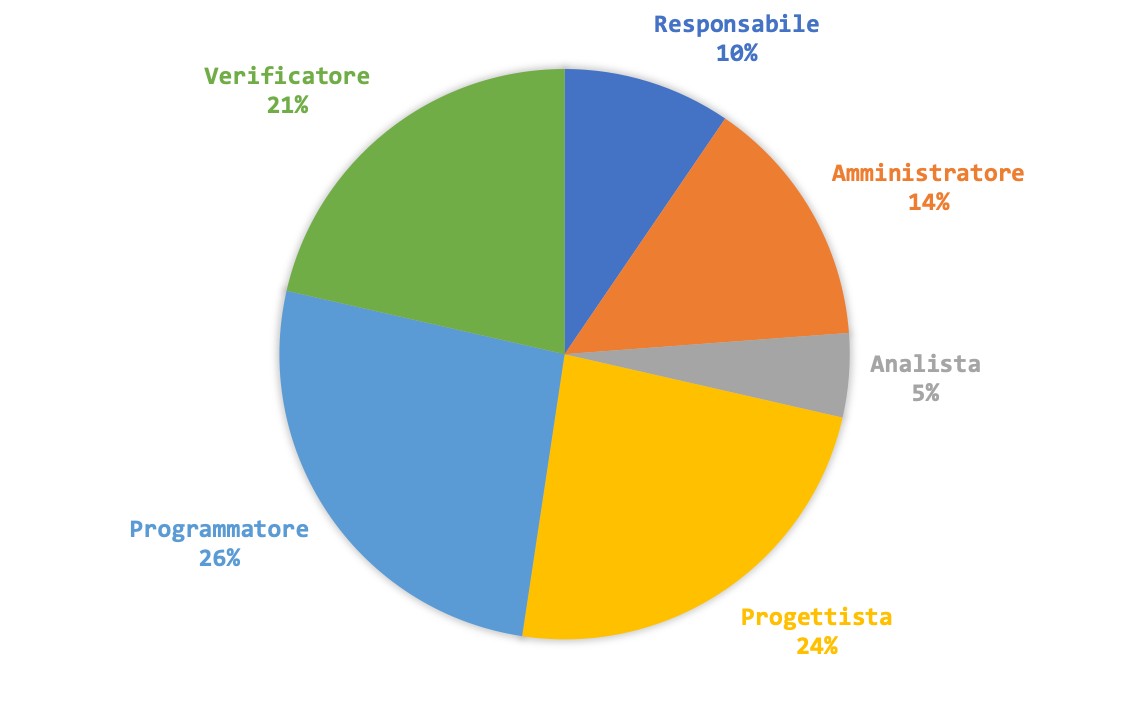
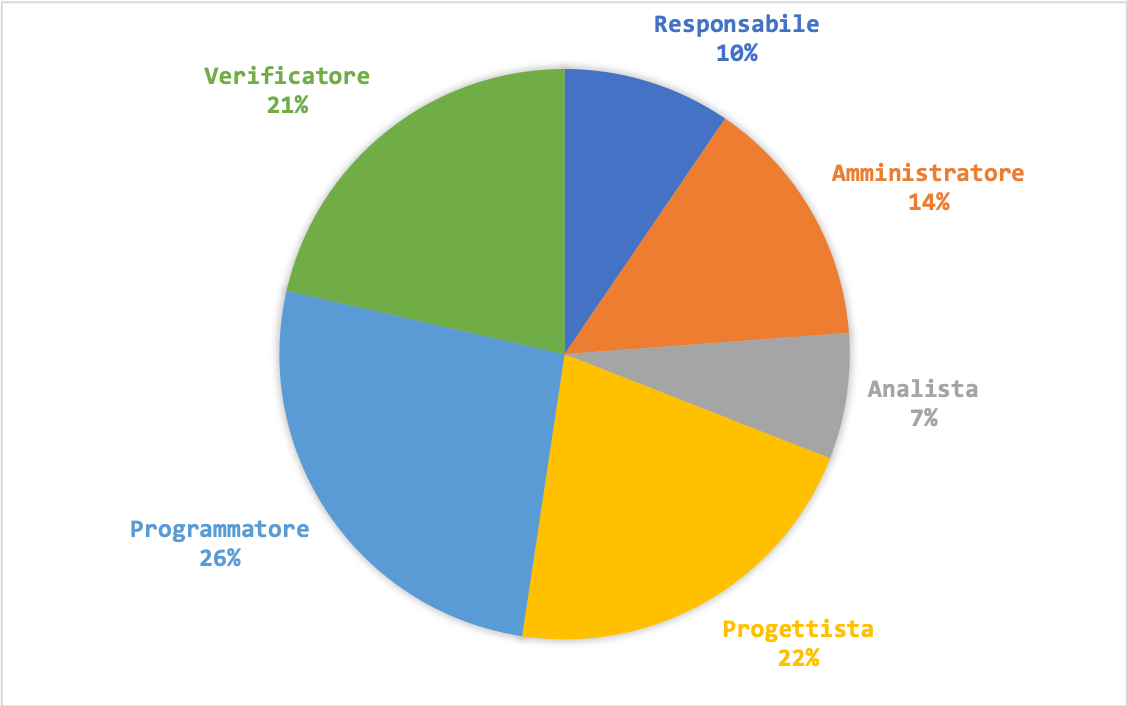
ore totali e ore rendicontate

diff --git a/esterni/piano_progetto/res/sections/Sez5-Preventivo/Preventivo.tex b/esterni/piano_progetto/res/sections/Sez5-Preventivo/Preventivo.tex
@@ -396,27 +396,27 @@
 			\endfirsthead
 			
 			\hline
-			Giuseppe Vito Bitetti 		 & 0 & 0 & 0 & 3 & 0 & 3 & 6\\
+			Giuseppe Vito Bitetti 		 & 1 & 0 & 0 & 3 & 0 & 2 & 6\\
 			\hline
 			\hline
 			Lorenzo Dei Negri			 & 0 & 0 & 0 & 0 & 3 & 3 & 6\\
 			\hline
 			\hline
-			Nicolò Frison				    & 2 & 0 & 0 & 0 & 4 & 0 & 6\\
+			Nicolò Frison				      & 3 & 0 & 0 & 0 & 3 & 0 & 6\\
 			\hline
 			\hline
-			Fouad Mouad 				 & 0 & 4 & 2 & 0 & 0 & 0 & 6\\
+			Fouad Mouad 				   & 0 & 3 & 3 & 0 & 0 & 0 & 6\\
 			\hline
 			\hline
-			Mariano Sciacco 			 & 0 & 0 & 0 & 3 & 0 & 3 & 6\\
+			Mariano Sciacco 			 & 0 & 0 & 0 & 2 & 0 & 4 & 6\\
 			\hline
 			\hline
-			Alessandro Tommasin     & 2 & 0 & 0 & 4 & 0 & 0 & 6\\
+			Alessandro Tommasin    & 0 & 1 & 0 & 0 & 5 & 0 & 6\\
 			\hline
 			\hline
 			Giovanni Vidotto 			 & 0 & 2 & 0 & 4 & 0 & 0 & 6\\
 			\hline 
-			\textbf{Totale}			 		& 4 & 6 & 2 & 8 & 8 & 6 & 42\\
+			\textbf{Totale}			 		& 4 & 6 & 3 & 9 & 8 & 9 & 42\\
 			\hline
 			\caption{Tabella contenente il prospetto orario preventivato per il secondo incremento}
 		\end{longtable}
@@ -448,10 +448,10 @@
 			Amministratore	   & 6 & 120,00\\
 			\hline
 			\hline
-			Analista 				& 2 & 50,00\\
+			Analista 				& 3 & 75,00\\
 			\hline
 			\hline
-			Progettista 		   & 10 & 220,00\\
+			Progettista 		   & 9 & 198,00\\
 			\hline
 			\hline
 			Programmatore 	  & 11 & 165,00\\
@@ -494,7 +494,7 @@
 			Lorenzo Dei Negri			 & 0 & 0 & 0 & 3 & 0 & 3 & 6\\
 			\hline
 			\hline
-			Nicolò Frison				    & 1 & 0 & 0 & 2 & 0 & 3 & 6\\
+			Nicolò Frison				    & 3 & 0 & 0 & 2 & 0 & 1 & 6\\
 			\hline
 			\hline
 			Fouad Mouad 				 & 0 & 0 & 0 & 3 & 3 & 0 & 6\\
@@ -503,7 +503,7 @@
 			Mariano Sciacco 			 & 0 & 3 & 0 & 0 & 3 & 0 & 6\\
 			\hline
 			\hline
-			Alessandro Tommasin     & 2 & 0 & 0 & 2 & 2 & 0 & 6\\
+			Alessandro Tommasin     & 0 & 0 & 0 & 2 & 2 & 2 & 6\\
 			\hline
 			\hline
 			Giovanni Vidotto 			 & 0 & 0 & 0 & 2 & 0 & 4 & 6\\
@@ -1499,27 +1499,27 @@
 				\endfirsthead
 				
 				\hline
-				Giuseppe Vito Bitetti 		& 9 & 16 & 20 & 25 & 30 & 40 & 140\\
+				Giuseppe Vito Bitetti 		& 8 & 14 & 28 & 14 & 26 & 48 & 138\\
 				\hline
 				\hline
-				Lorenzo Dei Negri			& 15 & 14 & 19 & 26 & 26 & 40 & 140\\
+				Lorenzo Dei Negri			& 18 & 14 & 16 & 30 & 23 & 37 & 138\\
 				\hline
 				\hline
-				Nicolò Frison				    & 13 & 10 & 21 &26 & 25 & 45 & 140\\
+				Nicolò Frison				    & 8 & 25 & 17 & 22 & 23 & 43 & 130\\
 				\hline
 				\hline
-				Fouad Mouad 				 & 10 & 13 & 17 & 21 & 27 & 52 & 140\\
+				Fouad Mouad 				 & 14 & 17 & 21 & 21 & 21 & 44 & 138\\
 				\hline
 				\hline
-				Mariano Sciacco 			& 11 & 18 & 22 & 16 & 25 & 48 & 140\\
+				Mariano Sciacco 			& 14 & 10 & 18 & 27 & 34 & 35 & 138\\
 				\hline
 				\hline
-				Alessandro Tommasin    & 17 & 17 & 17 & 24 & 28 & 37 & 140\\
+				Alessandro Tommasin    & 20 & 9 & 25 & 28 & 18 & 38 & 138\\
 				\hline
 				\hline
-				Giovanni Vidotto 			 & 12 & 17 & 17 & 20 & 26 & 48 & 140\\
+				Giovanni Vidotto 			 & 8 & 19 & 16 & 26 & 29 & 40 & 138\\
 				\hline 
-				\textbf{Totale}				 & 87 & 105 & 133 & 158 & 187 & 310 & 980\\
+				\textbf{Totale}				 & 90 & 105 & 133 & 158 & 187 & 310 & 966\\
 				\hline
 				\caption{Tabella contenente un prospetto orario riepilogativo di tutti i periodi trattati in precedenza}
 			\end{longtable}
@@ -1545,26 +1545,26 @@
 				\endfirsthead
 				
 				\hline
-				Responsabile 	    & 87 & 2.610,00\\
+				Responsabile 	    & 90 & 2.700,00\\
 				\hline 
 				\hline
-				Amministratore	  & 105 & 2.100,00\\
+				Amministratore	  & 108 & 2.160,00\\
 				\hline
 				\hline
-				Analista 				& 133 & 3.325,00\\
+				Analista 				& 141 & 3.525,00\\
 				\hline
 				\hline
-				Progettista 		  & 158 & 3.476,00\\
+				Progettista 		  & 168 & 3.696,00\\
 				\hline
 				\hline
-				Programmatore 	 & 187 & 2.805,00\\
+				Programmatore 	 & 174 & 2.610,00\\
 				\hline
 				\hline
-				Verificatore 		  & 217 & 4.650,00\\
+				Verificatore 		  & 285 & 4.275,00\\
 				\hline
-				\textbf{Totale} 	& 735 & 18.966,00\\
+				\textbf{Totale} 	& 966 & 18.966,00\\
 				\hline
-				\caption{Tabella contenente il prospetto economico in riferimento al prospetto orario nella tabella 14}
+				\caption{Tabella contenente il prospetto economico in riferimento al prospetto orario}
 			\end{longtable}
 			\pagebreak
 			
@@ -1589,27 +1589,27 @@
 					\endfirsthead
 					
 					\hline
-					Giuseppe Vito Bitetti 		& 9 & 7 & 6 & 25 & 30 & 38 & 105\\
+					Giuseppe Vito Bitetti 		& 8 & 5 & 14 & 14 & 26 & 36 & 103\\
 					\hline
 					\hline
-					Lorenzo Dei Negri			& 7 & 9 & 6 & 26 & 26 & 31 & 105\\
+					Lorenzo Dei Negri			& 10 & 9 & 3 & 30 & 23 & 28 & 103\\
 					\hline
 					\hline
-					Nicolò Frison				    & 13 & 0 & 13 &26 & 25 & 28 & 105\\
+					Nicolò Frison				    & 8 & 0 & 9 & 22 & 23 & 26 & 103\\
 					\hline
 					\hline
-					Fouad Mouad 				 & 8 & 6 & 6 & 21 & 27 & 37 & 105\\
+					Fouad Mouad 				 & 12 & 6 & 10 & 21 & 21 & 29 & 103\\
 					\hline
 					\hline
-					Mariano Sciacco 			& 3 & 18 & 7 & 16 & 25 & 36 & 105\\
+					Mariano Sciacco 			& 6 & 18 & 3 & 27 & 34 & 23 & 103\\
 					\hline
 					\hline
-					Alessandro Tommasin    & 6 & 17 & 3 & 24 & 28 & 7 & 105\\
+					Alessandro Tommasin    & 9 & 17 & 11 & 28 & 18 & 28 & 103\\
 					\hline
 					\hline
-					Giovanni Vidotto 			 & 10 & 10 & 9 & 20 & 26 & 30 & 105\\
+					Giovanni Vidotto 			 & 6 & 10 & 8 & 26 & 29 & 22 & 103\\
 					\hline 
-					\textbf{Totale}				 & 56 &  67 & 50 & 158 & 187 & 217 & 735\\
+					\textbf{Totale}				 & 59 &  70 & 58 & 168 & 174 & 192 & 721\\
 					\hline
 					\caption{Tabella contenente il prospetto orario preventivato a carico del committente}
 				\end{longtable}
@@ -1635,26 +1635,26 @@
 					\endfirsthead
 					
 					\hline
-					Responsabile 	    & 56 & 1.680,00\\
+					Responsabile 	    & 59 & 1.770,00\\
 					\hline 
 					\hline
-					Amministratore	  & 67 & 1.340,00\\
+					Amministratore	  & 70 & 1.400,00\\
 					\hline
 					\hline
-					Analista 				& 50 & 1.250,00\\
+					Analista 				& 58 & 1.450,00\\
 					\hline
 					\hline
-					Progettista 		  & 158 & 3.476,00\\
+					Progettista 		  & 168 & 3.696,00\\
 					\hline
 					\hline
-					Programmatore 	 & 187 & 2.805,00\\
+					Programmatore 	 & 174 & 2.610,00\\
 					\hline
 					\hline
-					Verificatore 		  & 217 & 3.255,00\\
+					Verificatore 		  & 192 & 2.880,00\\
 					\hline
-					\textbf{Totale} 	& 735 & 13.806,00\\
+					\textbf{Totale} 	& 721 & 13.806,00\\
 					\hline
-					\caption{Tabella contenente il prospetto economico in riferimento al prospetto orario nella tabella 16}
+					\caption{Tabella contenente il prospetto economico in riferimento al prospetto orario}
 				\end{longtable}
 				\pagebreak
 				
